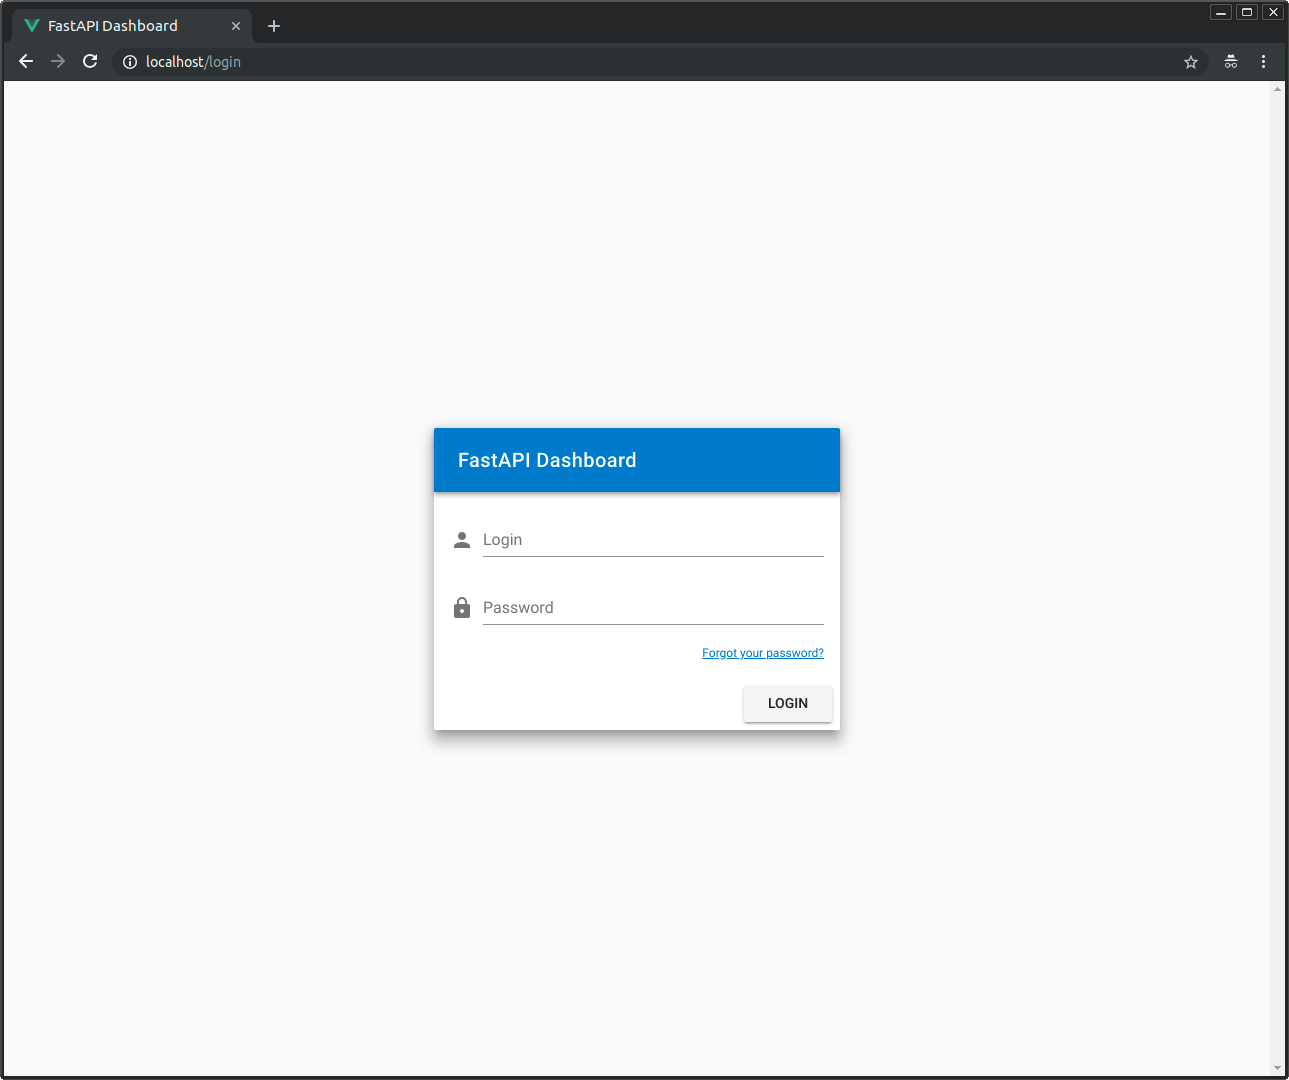
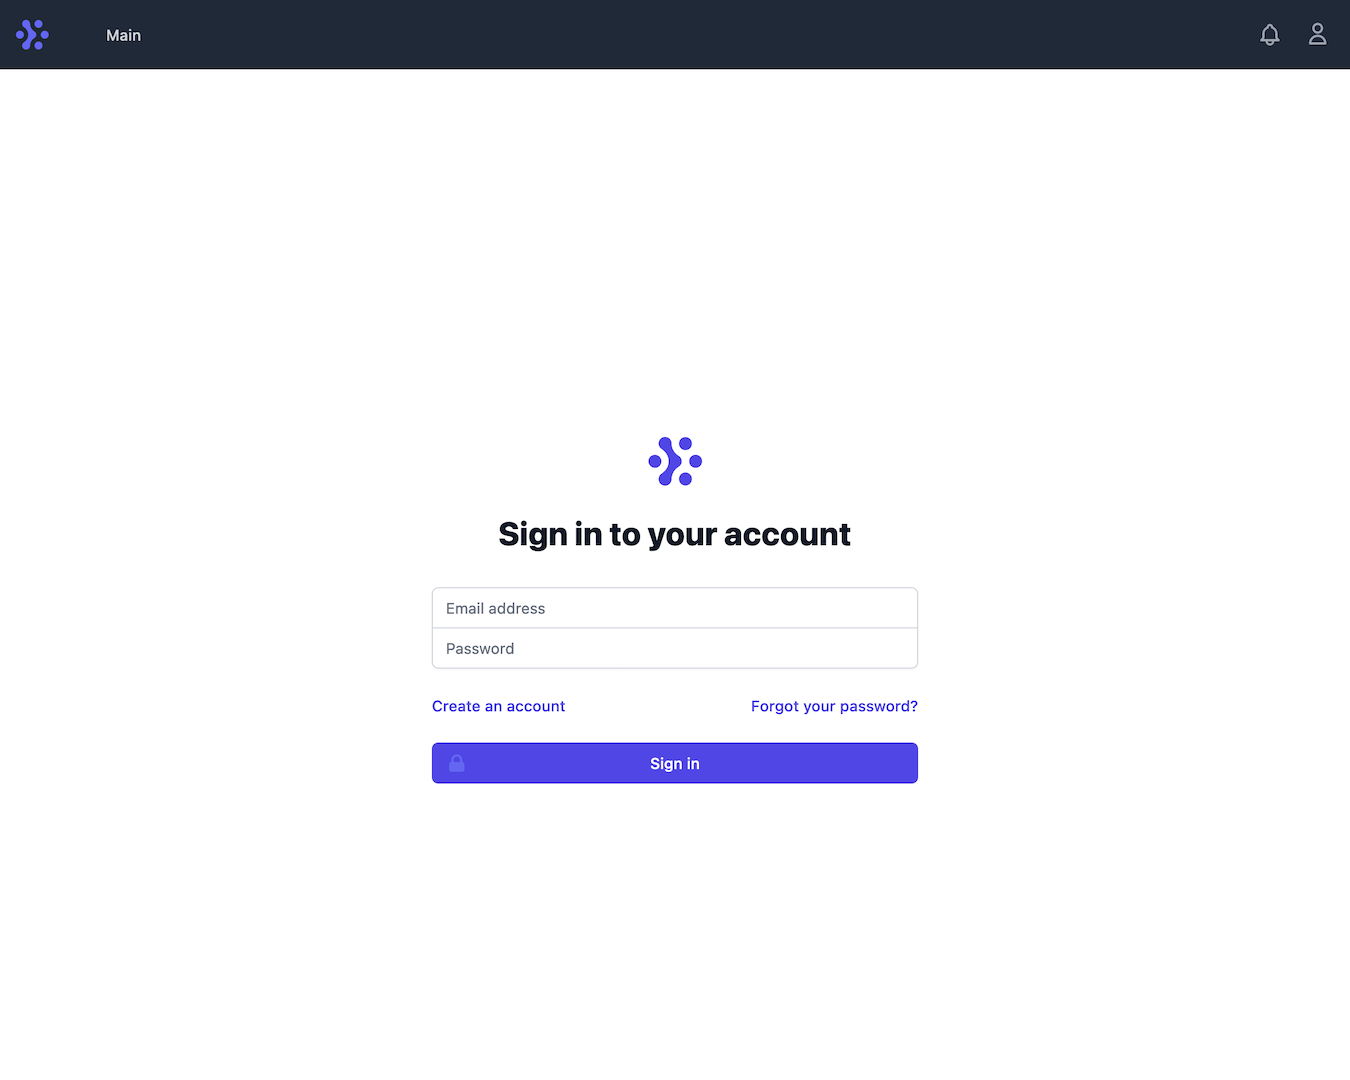
Update READMEs with NuxtJS info and screenshots

Changed region(s): [[0.0, 0.0, 1.0, 1.0], [0.3103, 0.3972, 0.6827, 0.7333]]

diff --git a/{{cookiecutter.project_slug}}/frontend/README.md b/{{cookiecutter.project_slug}}/frontend/README.md
@@ -6,7 +6,11 @@ Accelerate your next FastAPI Base Project Generator frontend development by repl
 
 ## Build Setup
 
+### Project
+
 First deploy FastAPI's [Base Project Generator](https://github.com/tiangolo/full-stack-fastapi-postgresql), then replace the entire `frontend` folder with this one, updating the `.env` settings, and `nuxt.config.js`, and `package.json` <i>'frontend'</i> project name with your own.
+
+### Yarn
 
 ```bash
 # install dependencies
@@ -24,6 +28,38 @@ $ yarn generate
 ```
 
 Hot reload does not work in WSL2 (only WSL1, as of 1 April 2021). For detailed explanation on how things work, check out [Nuxt.js docs](https://nuxtjs.org).
+
+### Docker
+
+A [Docker](https://www.docker.com/) configuration is also provided. The _Dockerfile_ is divided into four [build stages](https://docs.docker.com/develop/develop-images/multistage-build/):
+
+1. `build`:
+   - Copy files from the repo into the Docker container
+   - Install dependencies from _package.json_ with Yarn
+   - Build the Nuxt.js app with [server-side rendering](https://nuxtjs.org/docs/2.x/concepts/server-side-rendering) (SSR) in [standalone mode](https://nuxtjs.org/docs/2.x/configuration-glossary/configuration-build#standalone)
+2. `run-dev`: use the build stage to run the dev server, which can hot-reload within the Docker container if the source code is mounted
+3. `run-start`: use the build stage to run [`nuxt start`](https://nuxtjs.org/docs/2.x/get-started/commands), with all dependencies from the build
+4. `run-minimal`: this image is less than 1/6 the size of the others (262 MB vs. 1.72 GB)
+   - Pull a Node.js image running on Alpine Linux
+   - Copy the built Nuxt.js app from the `build` stage, without `node_modules`
+   - Install `nuxt-start`, with the minimal runtime for Nuxt.js (needed in addition to the inlined dependencies from standalone mode)
+   - Run the `nuxt start` command using the `nuxt-start` module to start the SSR application
+
+To work with the Docker configuration:
+
+```sh
+cd /path/to/full-stack-fastapi-postgresql/{{cookiecutter.project_slug}}/frontend
+
+# build and run the development environment with hot-reloading
+docker build . --rm --target run-dev -t localhost/whythawk/nuxt-for-fastapi:run-dev
+docker run -it -p 3000:3000 -v $(pwd):/app --env-file $(pwd)/.env localhost/whythawk/nuxt-for-fastapi:run-dev
+
+# build and run the minimal production environment
+docker build . --rm --target run-minimal -t localhost/whythawk/nuxt-for-fastapi:run-minimal
+docker run --env-file $(pwd)/.env -it -p 3000:3000 localhost/whythawk/nuxt-for-fastapi:run-minimal
+```
+
+Then browse to http://localhost:3000 to see the homepage.
 
 ## Nuxt.js and components
 

diff --git a/{{cookiecutter.project_slug}}/README.md b/{{cookiecutter.project_slug}}/README.md
@@ -8,7 +8,7 @@
 
 ## Frontend Requirements
 
-* Node.js (with `npm`).
+* Node.js (with `yarn`).
 
 ## Backend local development
 
@@ -360,37 +360,7 @@ and check all the corresponding available URLs in the section at the end.
 
 ## Frontend development
 
-* Enter the `frontend` directory, install the NPM packages and start the live server using the `npm` scripts:
-
-```bash
-cd frontend
-npm install
-npm run serve
-```
-
-Then open your browser at http://localhost:8080
-
-Notice that this live server is not running inside Docker, it is for local development, and that is the recommended workflow. Once you are happy with your frontend, you can build the frontend Docker image and start it, to test it in a production-like environment. But compiling the image at every change will not be as productive as running the local development server with live reload.
-
-Check the file `package.json` to see other available options.
-
-If you have Vue CLI installed, you can also run `vue ui` to control, configure, serve, and analyze your application using a nice local web user interface.
-
-If you are only developing the frontend (e.g. other team members are developing the backend) and there is a staging environment already deployed, you can make your local development code use that staging API instead of a full local Docker Compose stack.
-
-To do that, modify the file `./frontend/.env`, there's a section with:
-
-```
-VUE_APP_ENV=development
-# VUE_APP_ENV=staging
-```
-
-* Switch the comment, to:
-
-```
-# VUE_APP_ENV=development
-VUE_APP_ENV=staging
-```
+See the [frontend README](./frontend/README.md) for instructions.
 
 ### Removing the frontend
 

diff --git a/README.md b/README.md
@@ -44,20 +44,15 @@ Generate a backend and frontend stack using Python, including interactive API do
 * REST backend tests based on **Pytest**, integrated with Docker, so you can test the full API interaction, independent on the database. As it runs in Docker, it can build a new data store from scratch each time (so you can use ElasticSearch, MongoDB, CouchDB, or whatever you want, and just test that the API works).
 * Easy Python integration with **Jupyter Kernels** for remote or in-Docker development with extensions like Atom Hydrogen or Visual Studio Code Jupyter.
 * **Vue** frontend:
-    * Generated with Vue CLI.
     * **JWT Authentication** handling.
     * Login view.
     * After login, main dashboard view.
     * Main dashboard with user creation and edition.
     * Self user edition.
-    * **Vuex**.
-    * **Vue-router**.
-    * **Vuetify** for beautiful material design components.
     * **TypeScript**.
-    * Docker server based on **Nginx** (configured to play nicely with Vue-router).
+    * Docker server
     * Docker multi-stage building, so you don't need to save or commit compiled code.
-    * Frontend tests ran at build time (can be disabled too).
-    * Made as modular as possible, so it works out of the box, but you can re-generate with Vue CLI or create it as you need, and re-use what you want.
+    * Made as modular as possible, so it works out of the box, but you can re-generate as you need, and re-use what you want.
     * It's also easy to remove it if you have an API-only app, check the instructions in the generated `README.md`.
 * **PGAdmin** for PostgreSQL database, you can modify it to use PHPMyAdmin and MySQL easily.
 * **Flower** for Celery jobs monitoring.